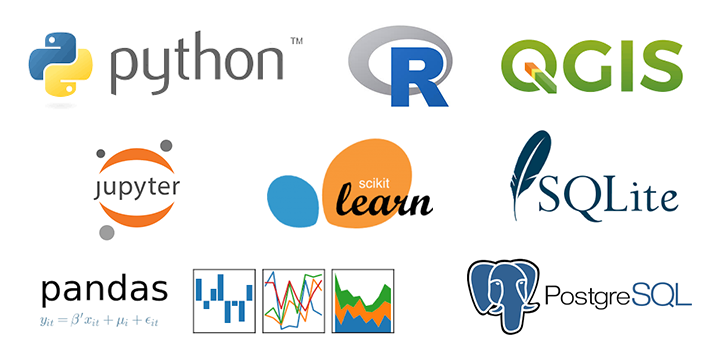
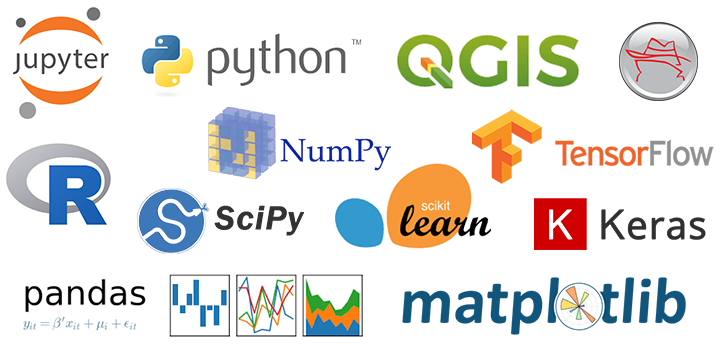
Update intro.png

diff --git a/_posts/2017-9-1-Ecosystem-of-data-science-tools-Geoscientists.md b/_posts/2017-9-1-Ecosystem-of-data-science-tools-Geoscientists.md
@@ -2,11 +2,11 @@
 layout: post
 title: Ecosystem of data science tools for geoscientists
 ---
-#### Open-source suite of tools for applying data science on geological problems.
+#### Free and open-source softwares (FOSS) for data science
 
-![Ecosystem of tools](https://raw.githubusercontent.com/gcmatos/gcmatos.github.io/master/images/Intro.png)
+![Ecosystem of tools](https://raw.githubusercontent.com/gcmatos/gcmatos.github.io/master/images/intro.png)
 
-Geologists deal with data provided from Earth through measuring devices (e.g. compass, GPS, cameras, etc.) and we are constantly facing highly complex physical features and sparse datasets that can make us feel stuck and hopeless. Commercial softwares also don't provide all the resources needed for problem solving. We have to process a broad range of types and sizes of structured and unstructured raw data. 
+Geologists deal with data provided from Earth through measuring devices (e.g. compass, GPS, cameras, etc.) and we are constantly facing highly complex physical features and sparse datasets that can make us feel stuck and hopeless. Commercial softwares also don't provide all the resources needed for problem solving. We have to process a broad range of types and sizes of structured and unstructured raw data.
 
 In this article I will try to describe all the tools that I found useful in my daily activities as a Geologist and Data Scientist. In each one of the following items you will find a brief description and links for you to go further into your topics of interest. It's not suppose to be a tutorial, I just pretend to give the reader some orientations in the Data Science world, based on my self learning experience from a Petroleum Geologist to a Geologist Data Scientist.
 
@@ -18,6 +18,6 @@ In this article I will try to describe all the tools that I found useful in my d
 **R** is the second tool in our list. It's a programming language specially designed for statistic analysis. You will find an extensive list of libraries that allow us to have access useful datasets and functions for data analysis in their repository [CRAN](https://cran.r-project.org/). R community also provide us with high level books, articles and tutorials.
   Useful links:
   - [R Tutorial](https://www.statmethods.net/r-tutorial/index.html)
-  - [R for Data Science](http://r4ds.had.co.nz/) Amazing book written by Garrett Grolemund and Hadley Wickham 
+  - [R for Data Science](http://r4ds.had.co.nz/) Amazing book written by Garrett Grolemund and Hadley Wickham
 
 ...
